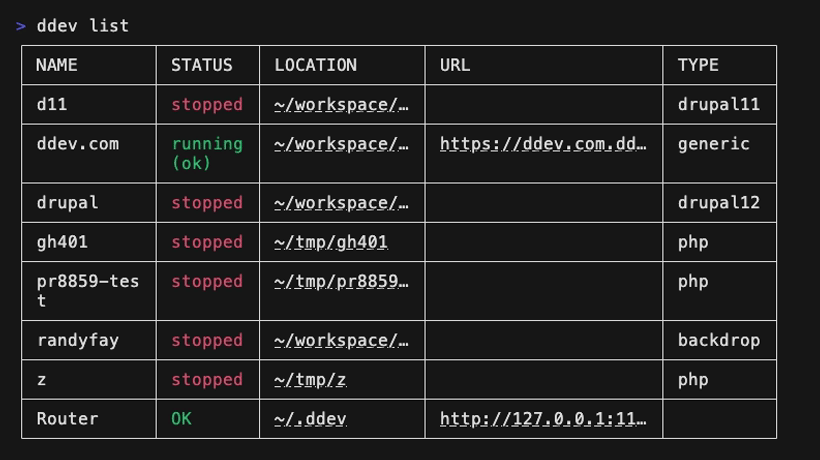
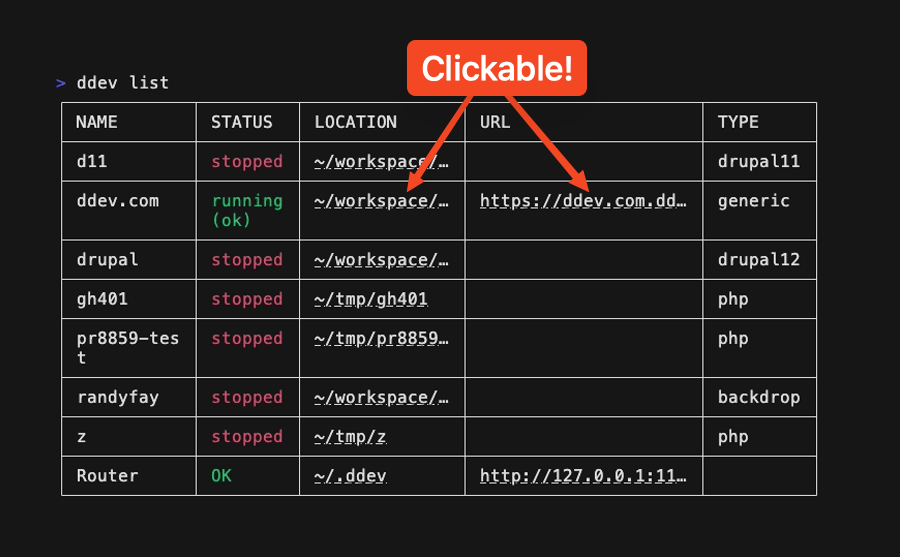
docs(blog): add TUI filter screenshot and updated graphics to navigation article
## The Issue

- Fixes #REPLACE_ME_WITH_RELATED_ISSUE_NUMBER

The dashboard section mentioned filtering only in passing, and the screenshots needed updating.

## How This PR Solves The Issue

Adds a screenshot of the dashboard filter and a paragraph on `/`, which matches a project's name, type, status, or directory (case-insensitive). Updates the list, describe, and dashboard screenshots.

## Manual Testing Instructions

Open the post at `https://REPLACE_ME.ddev-com-front-end.pages.dev/blog/navigating-ddev-projects-filesystem/` and check the dashboard section and screenshots.

## Automated Testing Overview

No automated tests. `ddev prettier` and `ddev textlint` pass.

## Release/Deployment Notes

Draft only. The screencast embed and several TODO comments remain.

🤖 Developed with assistance from [Claude Code](https://claude.ai/code)

diff --git a/src/content/blog/navigating-ddev-projects-filesystem.md b/src/content/blog/navigating-ddev-projects-filesystem.md
@@ -24,11 +24,13 @@ To see only the projects that are running, use `ddev list --active-only` (or `dd
 
 ## The DDEV Dashboard: Just Type `ddev`
 
-Running `ddev` with no arguments opens an interactive terminal dashboard that lists all of your projects and their status. You can start, stop, and restart projects, open a project's URL or Mailpit in the browser, filter the list with `/`, and press Enter for a project's details. For someone with 52 projects, this may be the quickest way to see what is running. See the [interactive dashboard documentation](https://docs.ddev.com/en/stable/users/usage/cli/#interactive-dashboard) for the full list of keys.
+Running `ddev` or `ddev tui` with no arguments opens an interactive terminal dashboard that lists all of your projects and their status. You can start, stop, and restart projects, open a project's URL or Mailpit in the browser, and press Enter for a project's details. For someone with 52 projects, this may be the quickest way to see what is running.
+
+With many projects, the most useful key is `/`, which filters the list as you type. The filter matches part of a project's name, type, status, or directory, ignoring case, so `dr` finds every Drupal project, `running` shows only running projects, and `client` finds every project under a `client` directory. Move to the project you want, and start it with `s` or open it with `l`. See the [interactive dashboard documentation](https://docs.ddev.com/en/stable/users/usage/cli/#interactive-dashboard) for the full list of keys.
 
 ![DDEV interactive dashboard listing projects with status, type, and location](/img/blog/2026/09/navigating-ddev-tui.png)
 
-To get the classic help text instead, set `no_tui: true` in the global configuration or `DDEV_NO_TUI=true` in the environment.
+![DDEV dashboard filtered by typing "dr" after pressing the slash key, showing only matching projects](/img/blog/2026/09/tui-filter.png)
 
 ## `ddevcd`: Built-In Project Jump
 
